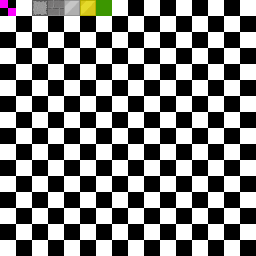
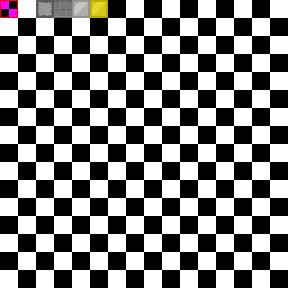
Added margin to tiles in tilesets to avoid some graphical glitches

Changed region(s): [[0.125, 0.0, 0.4375, 0.0625], [0.0, 0.0, 0.0625, 0.0625]]

diff --git a/source/World/Chunk.cpp b/source/World/Chunk.cpp
@@ -122,14 +122,19 @@ void Chunk::generateBlockSideVertices() const
         {
             sf::Vector2i block_pos(x + pos.x * CHUNK_SIZE, y + pos.y * CHUNK_SIZE);
             const Block* block = game->getBlocksManager().getBlockByID(blocks.get(x, y));
+            const Block* block_down = world->getBlockPtr(block_pos + sf::Vector2i(0, 1), false);
 
             BlockInfo bi(world, block_pos);
+            BlockInfo bi_down(world, block_pos + sf::Vector2i(0, 1));
 
             if (block == GameBlocks::AIR)
                 continue;
 
             if (!block->hasVolume(bi))
-                break;
+                continue;
+
+            if (block_down->occults(bi_down))
+                continue;
 
             TextQuad side = block->getSideVertices(bi);
 

diff --git a/source/Utils/TilesetHelper.h b/source/Utils/TilesetHelper.h
@@ -22,7 +22,7 @@ TilesetHelper<TextureSize, TilesetWidth, MarginSize>::TilesetHelper()
 template<size_t TextureSize, size_t TilesetWidth, size_t MarginSize>
 sf::FloatRect TilesetHelper<TextureSize, TilesetWidth, MarginSize>::getFloatRect(unsigned int number) const
 {
-    return sf::FloatRect((number % TilesetWidth) * TextureSize, (number / TilesetWidth) * TextureSize, TextureSize, TextureSize);
+    return sf::FloatRect((number % TilesetWidth) * (TextureSize + MarginSize * 2) + MarginSize, (number / TilesetWidth) * (TextureSize + MarginSize * 2) + MarginSize, TextureSize, TextureSize);
 }
 
 template<size_t TextureSize, size_t TilesetWidth, size_t MarginSize>

diff --git a/source/Ground/Ground.h b/source/Ground/Ground.h
@@ -12,8 +12,8 @@ class Ground
 {
     friend class GameGrounds;
     public:
-        static const TilesetHelper<16, 16, 0> tilesetHelper;
-        static const TilesetHelper<16, 8, 0> tilesetHelperDetails;
+        static const TilesetHelper<16, 16, 1> tilesetHelper;
+        static const TilesetHelper<16, 8, 1> tilesetHelperDetails;
 
         Ground(const std::string name, uint32_t default_texture);
         virtual ~Ground();

diff --git a/source/Ground/Ground.cpp b/source/Ground/Ground.cpp
@@ -6,8 +6,8 @@
 #include "../Utils/XXHash.hpp"
 #include "../Utils/XXHash_bis.hpp"
 
-const TilesetHelper<16, 16, 0> Ground::tilesetHelper;
-const TilesetHelper<16, 8, 0> Ground::tilesetHelperDetails;
+const TilesetHelper<16, 16, 1> Ground::tilesetHelper;
+const TilesetHelper<16, 8, 1> Ground::tilesetHelperDetails;
 
 Ground::Ground(const std::string name, uint32_t default_texture) :
     name(name),

diff --git a/source/Block/Block.h b/source/Block/Block.h
@@ -11,7 +11,7 @@ class Block
 {
     friend class GameBlocks;
     public:
-        static const TilesetHelper<16, 16, 0> tilesetHelper;
+        static const TilesetHelper<16, 16, 1> tilesetHelper;
 
         Block(const std::string name, uint32_t default_texture);
         virtual ~Block();

diff --git a/source/Block/Block.cpp b/source/Block/Block.cpp
@@ -1,6 +1,6 @@
 #include "Block.h"
 
-const TilesetHelper<16, 16, 0> Block::tilesetHelper;
+const TilesetHelper<16, 16, 1> Block::tilesetHelper;
 
 Block::Block(const std::string name,uint32_t default_texture) :
     name(name),
